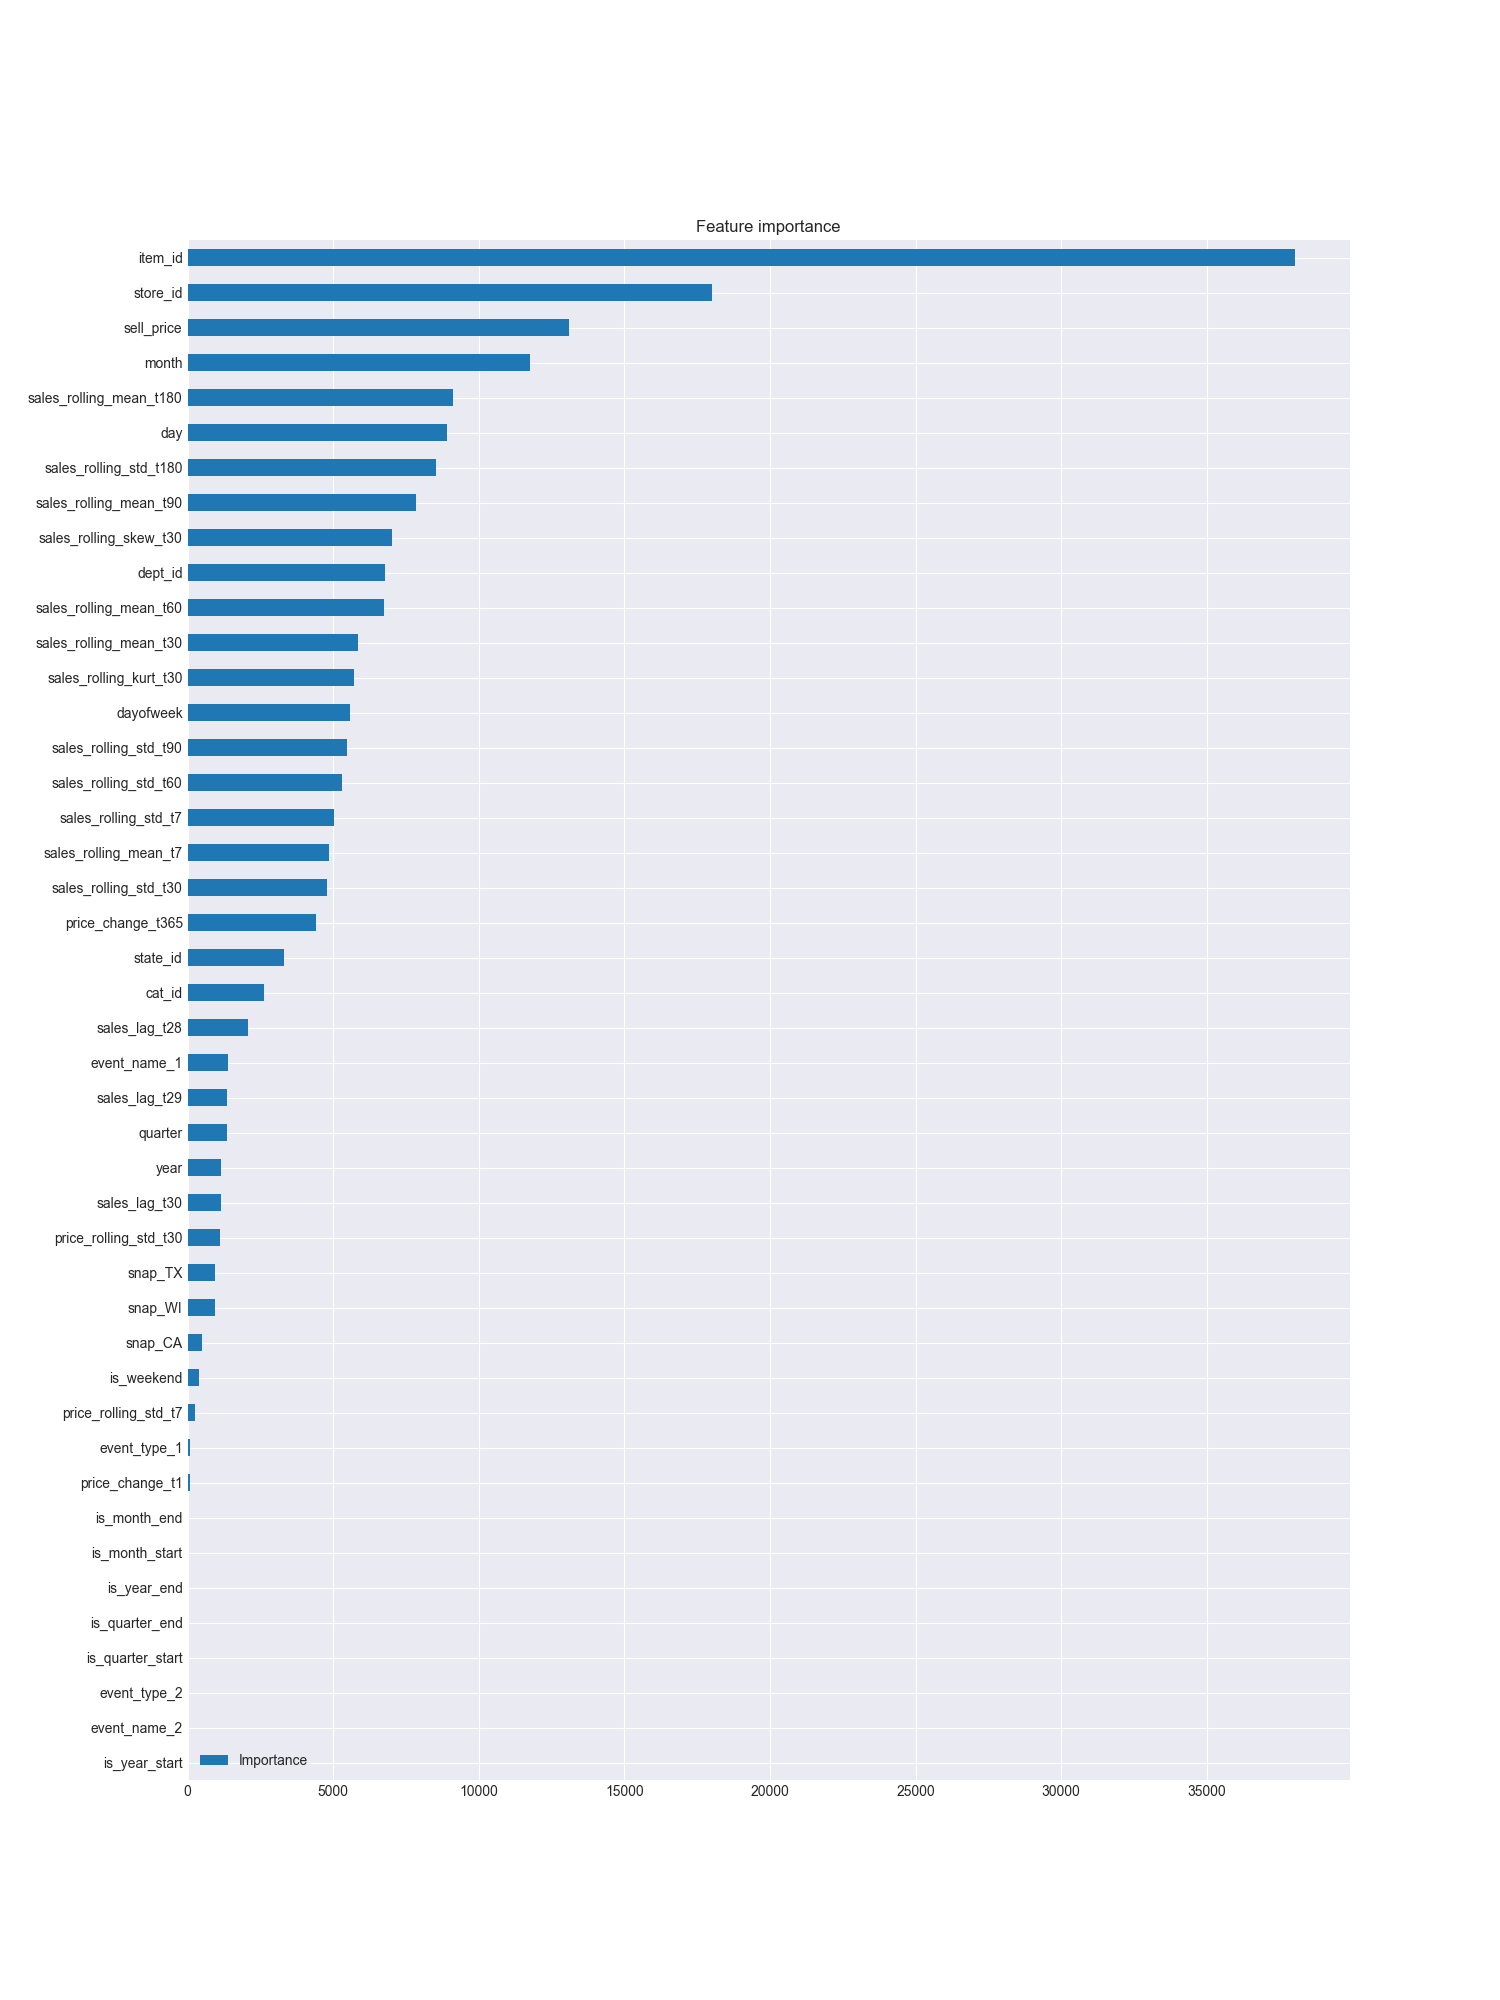
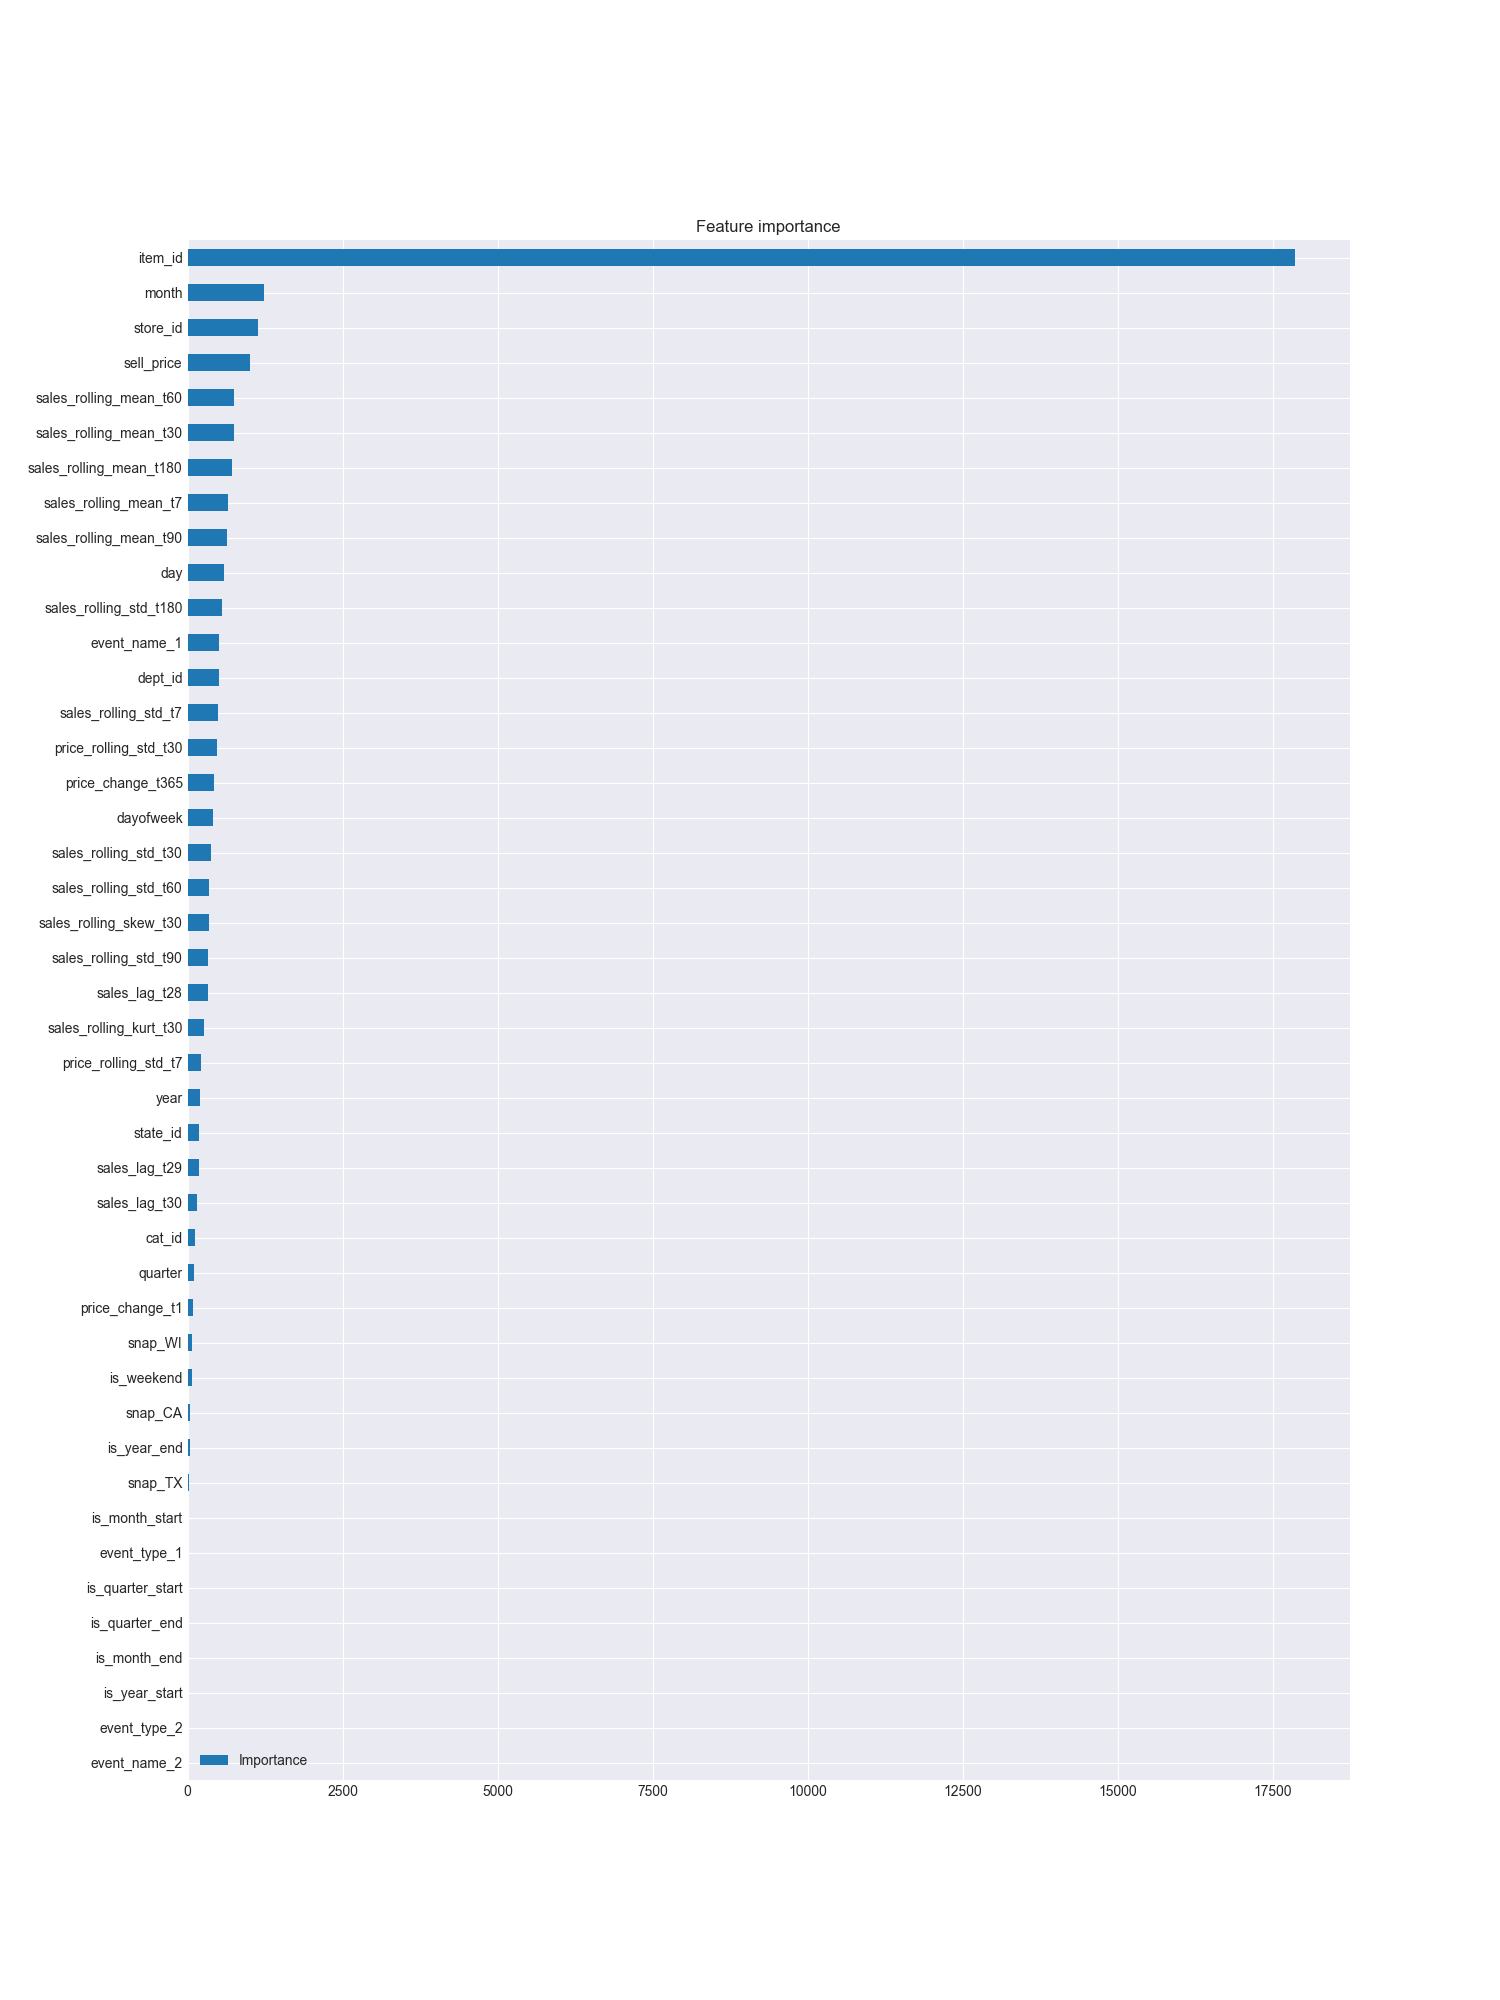
[save] this point.

Changed region(s): [[0.0307, 0.124, 0.4907, 0.899]]

diff --git a/v03000/v03004_baseline.py b/v03000/v03004_baseline.py
@@ -198,18 +198,15 @@ class WRMSSEForLightGBM(WRMSSEEvaluator):
         fobj_weight = weight_df.loc[data_idx, 'weight'].values
         fojb_sclae = weight_df.loc[data_idx, 'scale'].values
 
-        # weight = 2 * fobj_weight / np.sqrt(fojb_sclae)
         return fobj_weight, fojb_sclae
 
     def set_series_weight_for_fobj(self, train_idx):
         fobj_weight, fojb_sclae = self.get_series_weight(train_idx)
-        self.custom_jobj_weight = fobj_weight / np.sqrt(fojb_sclae)
+        self.custom_jobj_weight = 2 * np.power(fobj_weight, 2) / fojb_sclae
 
     def custom_fobj(self, preds, dtrain):
         actual = dtrain.get_label()
-        # weight = 2 * np.power(self.fobj_weight, 2) / self.fojb_sclae
-        # weight = self.custom_jobj_weight
-        weight = 2 * np.power(dtrain.get_weight(), 2)
+        weight = self.custom_jobj_weight
 
         grad = weight * (preds - actual)
         hess = weight
@@ -356,16 +353,16 @@ def run_train():
         'model_params': {
             'boosting': 'gbdt',
             'objective': 'tweedie',  # tweedie, poisson
-            'tweedie_variance_power': 1.1,
+            'tweedie_variance_power': 1.1,  # 1.0=poisson
             'metric': 'None',
-            'num_leaves': 2**11 - 1,
-            'min_data_in_leaf': 2**12 - 1,
+            'num_leaves': 2**7 - 1,
+            'min_data_in_leaf': 25,
             'seed': SEED,
             'learning_rate': 0.1,  # 0.1
             'subsample': 0.5,
             'subsample_freq': 1,
             'feature_fraction': 0.8,
-            'max_bin': 100,
+            'force_row_wise': True,
             'verbose': -1,
         },
         'train_params': {

diff --git a/v03000/version_ reference.md b/v03000/version_ reference.md
@@ -59,3 +59,16 @@ Validation Strorategy や 特徴量エンジニアリングは次の実験で行
       - https://www.kaggle.com/sibmike/fast-clear-wrmsse-18ms
 
 
+
+## Conclusion
+- Baseline を引くことができた。
+- RMSE では WRMSSE と同等の最適化ができないことがわかった。
+  - しかし、現状はRMSEで最適化したほうがLBのスコアがいい
+- 目的関数には、カスタム目的関数を定義するのがいい。
+  - しかし現状は、Tweedie による代用が可能（おいおいやらねばならない）
+- sample_weight を目的関数や重み付きRMSEなどはうまく機能せず、現状のアプローチが間違っている可能性が高い
+  - 他 Kernel を参考にして、正しいやり方を再調査する必要がありそう。
+- Baseline を引くことができたので、データクレンジングや特徴量エンジニアリングをしていきたい。
+  - Baselineの内容
+    - simple_fe
+    - tweedie, wrmsse, leave-one-out
